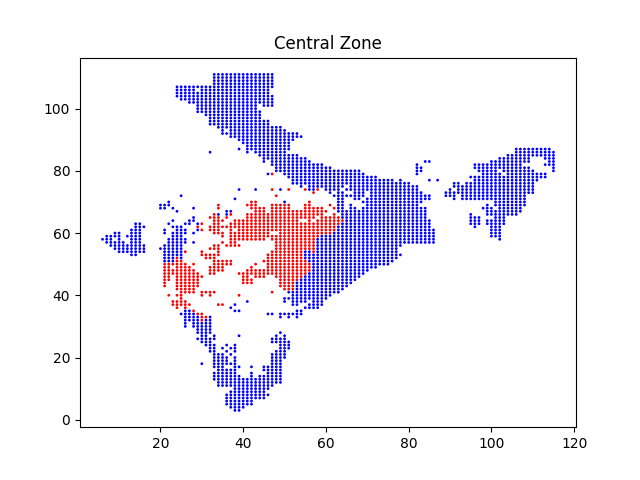
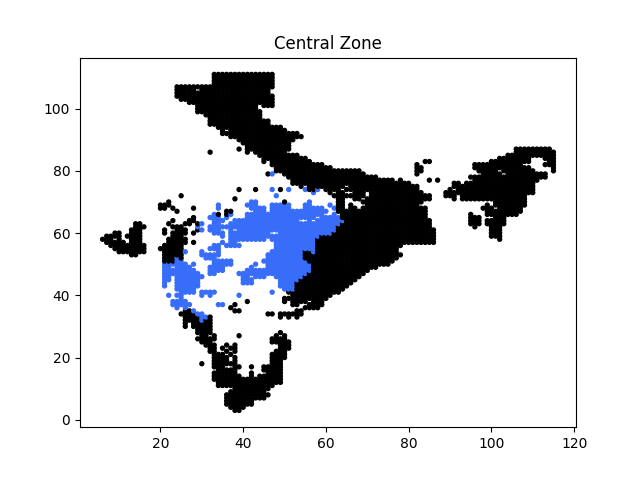
plots updated

Changed region(s): [[0.1562, 0.125, 0.875, 0.875]]

diff --git a/code/code.py b/code/code.py
@@ -172,7 +172,32 @@ def zone_analysis(data):
     7 = north zone
     """
 
+    import matplotlib.patches as mpatches
+    import matplotlib.cm as cm
+    colors = cm.rainbow(np.linspace(0,1,8)) 
     T={1:"Central Zone",2:"North East Zone",3:"North Eastern Hills Zone",4:"South Zone",5:"J&K Zone",6:"West Zone",7:"North Zone"}
+
+    """
+    mask=zone_mask(8)
+    mask=np.rot90(mask,k=3)
+    C=[]
+    X=[]
+    Y=[]
+    for i in range(121):
+        for j in range(121):
+            X.append(i)
+            Y.append(j)
+            C.append(colors[mask[i][j]])
+
+
+    plt.scatter(X,Y,c=C)
+    plt.title("Zones in India")
+    handles=[]
+    for i in range(7):
+        handles.append(mpatches.Patch(color=colors[i+1],label=T[i+1]))
+    plt.legend(handles=handles)
+    plt.show()
+    """
 
     """
     for i in range(1,8,1):
@@ -182,16 +207,16 @@ def zone_analysis(data):
         C=[]
         for j,k in zip(data['X'],data['Y']):
             if not mask[j][k]:
-                C.append('r')
+                C.append(colors[i])
             else:
-                C.append('b')
+                C.append('black')
 
-        plt.scatter(data['X'],data['Y'],s=1,c=C)
+        plt.scatter(data['X'],data['Y'],s=8,c=C)
         plt.title(T[i])
         plt.savefig("images/zonal_analysis/"+T[i]+".png")
     """
 
-    # """
+    """
     # Find zone of each point
     Z=[[] for i in range(7)]
     mask=zone_mask(8)
@@ -216,7 +241,7 @@ def zone_analysis(data):
         figure = plt.gcf()
         figure.set_size_inches(32, 18)
         plt.savefig("images/zonal_analysis/"+T[i+1]+" Variation with year"+".png")
-    # """
+    """
 
 
 
